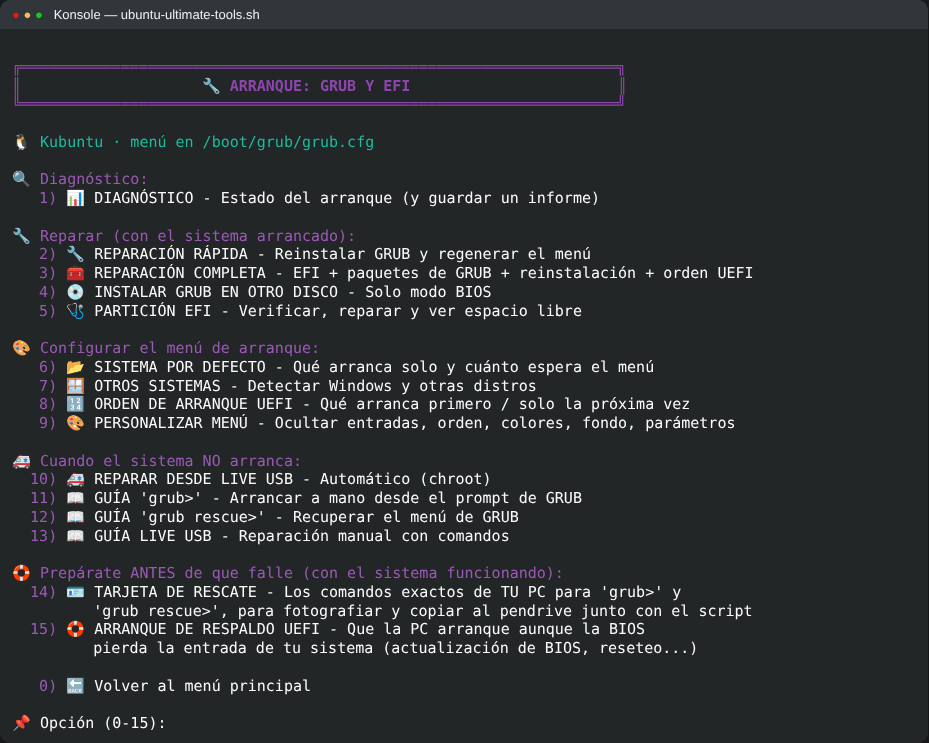
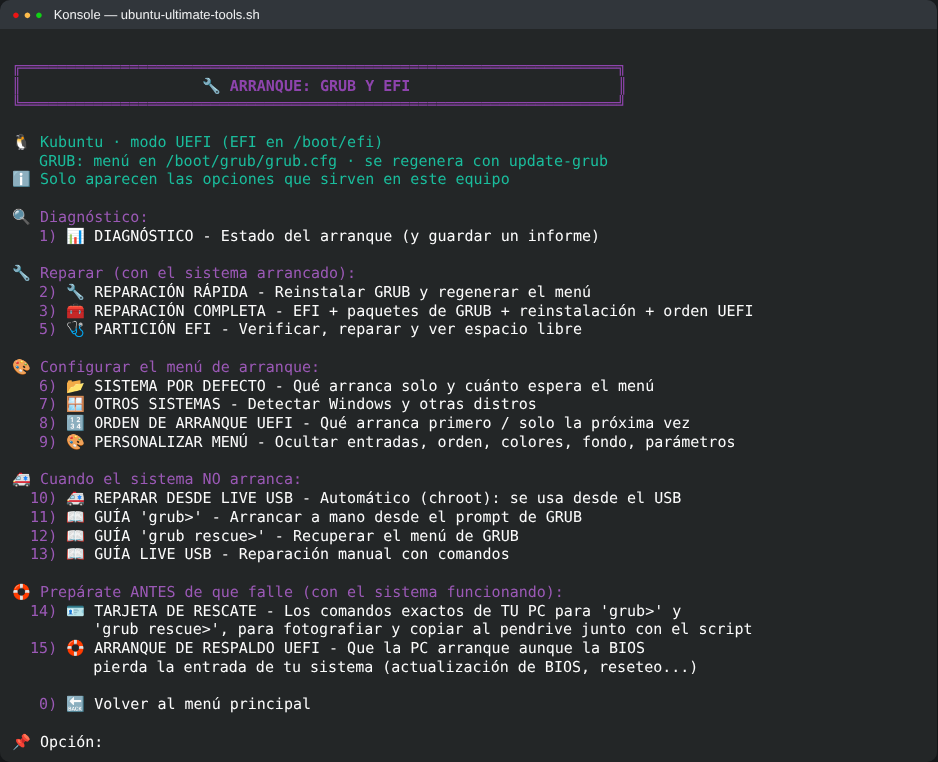
Menú de arranque: muestra solo las opciones que sirven en el equipo (UEFI, BIOS, Live USB, sin GRUB) (#19)

diff --git a/README.md b/README.md
@@ -176,6 +176,13 @@ Todo lo hace el propio script, sin instalar programas externos.
 | Fedora | `grub2-mkconfig` (entradas BLS con `grubby`) | dnf (con shim firmado) | `/boot/efi` |
 | openSUSE | `grub2-mkconfig` y `shim-install` | zypper | `/boot/efi` |
 
+- **El menú muestra solo lo que sirve en tu equipo** (los números no cambian, así la tarjeta de rescate y las
+  guías siguen valiendo):
+  - **UEFI:** partición EFI, orden de arranque UEFI y arranque de respaldo; se oculta "Instalar en otro disco".
+  - **BIOS (Legacy):** "Instalar en otro disco"; se ocultan las opciones de EFI y UEFI.
+  - **Desde un Live USB:** la reparación del sistema del disco (10), las guías, el diagnóstico y el orden UEFI.
+  - **Sin GRUB (systemd-boot):** diagnóstico, partición EFI, orden UEFI y guías.
+  - Si escribes el número de una opción oculta, el script explica por qué no aplica.
 - El script detecta la distribución, la carpeta de GRUB (`/boot/grub` o `/boot/grub2`), dónde está montada la
   partición EFI y cómo se llama su carpeta (`ubuntu`, `debian`, `GRUB`, `manjaro`, `fedora`...).
 - **En Ubuntu y sus derivadas** (Kubuntu, Mint, Pop!_OS...) está todo el script. **En las demás distribuciones**

diff --git a/screenshots/README.md b/screenshots/README.md
@@ -118,3 +118,9 @@ sabor y el escritorio detectados, y las listas muestran solo lo que está instal
 ## Menú de arranque en Arch Linux (opción 18)
 
 ![Menú de arranque en Arch Linux (opción 18)](19-arranque-arch.png)
+
+---
+
+## Menú de arranque desde un Live USB (opción 18)
+
+![Menú de arranque desde un Live USB (opción 18)](20-arranque-live-usb.png)
